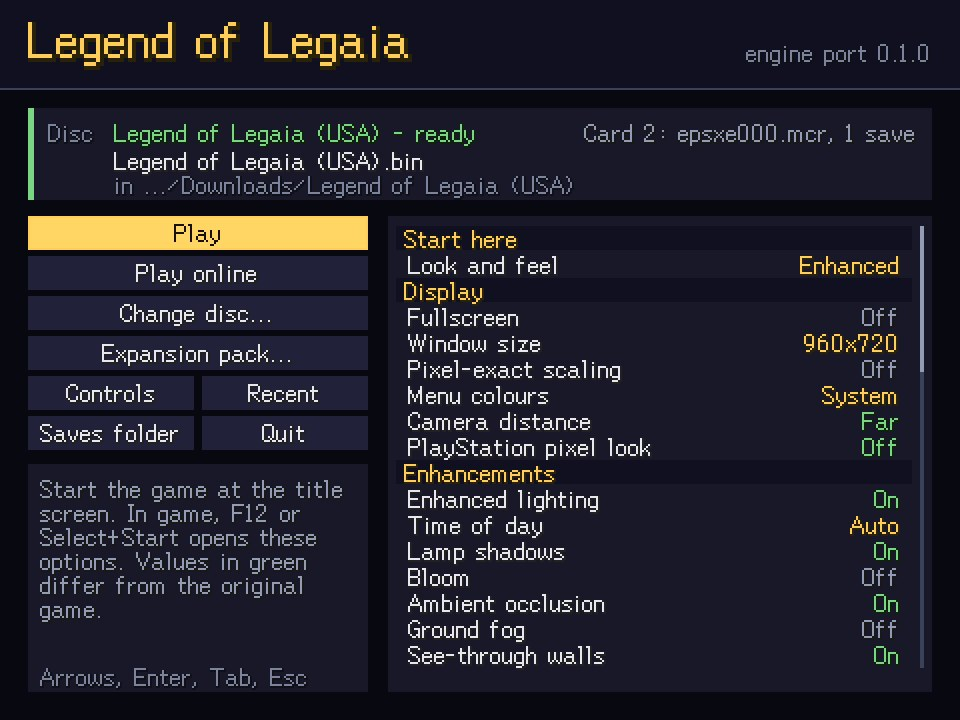
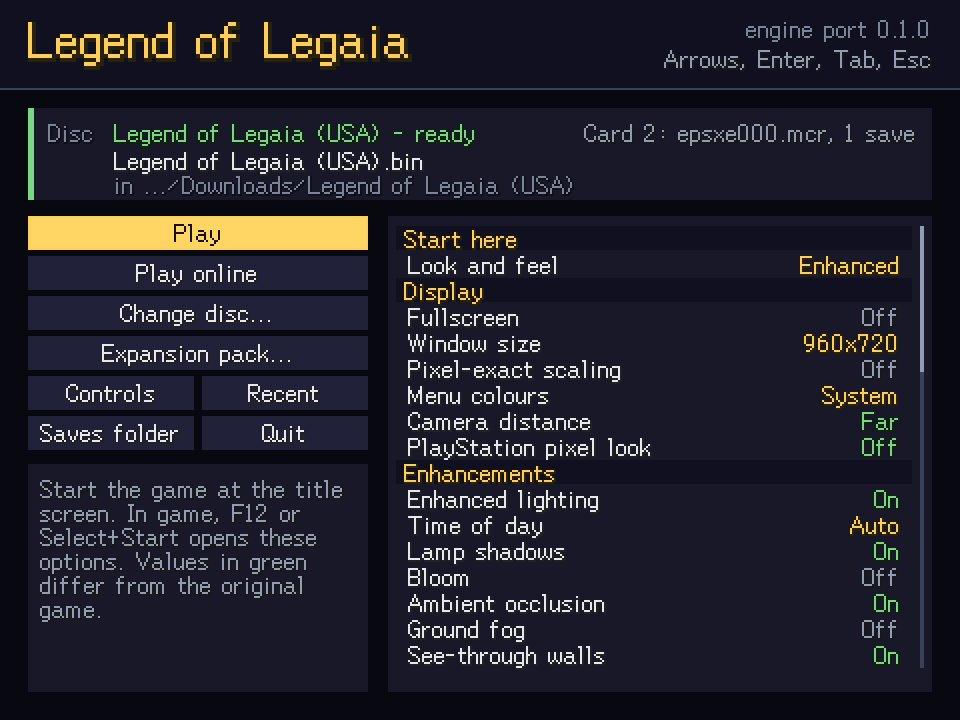
Launcher: the key reminder moves to the header, so no help text pushes it out
The help box's last line held "Arrows, Enter, Tab, Esc" only while the
help left room, and some forty option helps with their note (the default,
Not as in the original game, held by Original game only) took it. The
reminder (or a controller's "Cross OK, Circle back") now has a header line
of its own under the version, inside the band on the squeezed minimum stage
too, and the help box gets its whole height; its last line is kept only
for a failed game's copy-report hint. Tests: the reminder's header line for
the keyboard and every maker's labels on base, minimum and wide stages; every
option help with each of its notes, and every button's help, fit whole. The
guide's launcher image is re-shot.

diff --git a/site/_content/guides/playing-and-viewing.html b/site/_content/guides/playing-and-viewing.html
@@ -45,8 +45,8 @@
   <div class="cli"><code>./legaia-engine</code></div>
   <p>On Linux and Windows a disc image, expansion pack or memory card opened with <code>Legend of Legaia</code> ("Open with", or a file dropped on the program's icon) arrives in the launcher as if it were dropped on its window.</p>
   <figure class="screenshot">
-    <img src="../img/desktop/port-launcher.jpg" width="960" height="720" alt="The launcher: a disc card saying Legend of Legaia (USA) is ready, with the memory card mounted in port 2 named beside it, the Play, Play online, Change disc, Expansion pack, Controls, Recent, Saves folder and Quit buttons with a help box, and the grouped option list with its scroll bar, opening on the Look and feel row, then Display and Enhancements" loading="lazy">
-    <figcaption>The launcher, lettered in the game's own font once your disc is known. It scales in whole steps (a 640x480 window takes a 4/3 step so it fills); a taller window shows more of the option list and a wider one widens both columns. The gold-filled button is the one under the cursor; <em>Play</em> letters itself in gold when it is not.</figcaption>
+    <img src="../img/desktop/port-launcher.jpg" width="960" height="720" alt="The launcher: a disc card saying Legend of Legaia (USA) is ready, with the memory card mounted in port 2 named beside it, the Play, Play online, Change disc, Expansion pack, Controls, Recent, Saves folder and Quit buttons with a help box, the version and the key reminder at the header's right, and the grouped option list with its scroll bar, opening on the Look and feel row, then Display and Enhancements" loading="lazy">
+    <figcaption>The launcher, lettered in the game's own font once your disc is known. It scales in whole steps (a 640x480 window takes a 4/3 step so it fills); a taller window shows more of the option list and a wider one widens both columns. The gold-filled button is the one under the cursor; <em>Play</em> letters itself in gold when it is not. The keys that work the screen sit at the header's right, under the version, where no help text can push them out.</figcaption>
   </figure>
   <ol class="steps">
     <li><b>Pick the disc</b><span><em>Choose disc...</em> (<kbd>Ctrl</kbd>+<kbd>O</kbd>) opens the file dialog; dragging the <code>.bin</code> / <code>.cue</code> onto the window, or typing its path, works too.</span></li>
@@ -57,7 +57,7 @@
   <p>The check reads a few sectors through the same reader the game boots from; it is not the SHA-256 fingerprint <code>disc-extract verify</code> computes. A PAL or Japanese disc is refused with the executable it boots, with the note that a randomized or translated USA disc is accepted, since it still boots the USA executable. A disc that is not a PlayStation game at all is named as such, and an image missing <code>PROT.DAT</code> or with a damaged <code>SCUS_942.54</code> is called a damaged or partial dump, with the advice to dump the disc again.</p>
   <p><strong>Your disc, found.</strong> On a first run the launcher looks for a dump before asking for one: first the discs Legaia Explorer opened, whatever the files are called, then its own folder, Downloads, the Desktop, Documents and the home folder (and their direct subfolders): a <code>.bin</code> or <code>.cue</code> named for the game, or in a folder named for it, that passes the check. It is offered on the disc card with <em>Use this disc</em>; <kbd>Enter</kbd> adopts it, <kbd>Ctrl</kbd>+<kbd>O</kbd> or <kbd>Shift</kbd>+<kbd>Enter</kbd> picks another file.</p>
   <p><strong>Recent.</strong> The <em>Recent</em> button opens a page listing the discs and memory cards used before, each with its state, and every save on the game's own card and on card 2, longest played first, with its leader, level, place and play time. <kbd>Enter</kbd> switches to a disc, mounts a card, or starts the game on a save without the title screen; <kbd>Delete</kbd> forgets a disc or card. The discs group ends with <em>Find a disc on this computer...</em>, the disc finder below.</p>
-  <p><strong>A disc finder for a controller.</strong> A controller cannot work the desktop's file dialog, so Cross on <em>Choose disc...</em> opens the launcher's own finder in place of the options: the folder of the disc last used (else Downloads, else the home folder), its subfolders and its <code>.bin</code> / <code>.cue</code> files, then the usual places (home, Downloads, Desktop, Documents, the program's folder and the top of each drive). Cross opens a folder or tries a disc image, and a disc that passes the check is adopted at once; <em>Up one folder</em> (or <kbd>Backspace</kbd>) climbs, and Circle or <kbd>Esc</kbd> closes it. While a controller was the last thing pressed, the help box's key reminder and the press-to-play lines name its buttons, by the labels its maker prints on them.</p>
+  <p><strong>A disc finder for a controller.</strong> A controller cannot work the desktop's file dialog, so Cross on <em>Choose disc...</em> opens the launcher's own finder in place of the options: the folder of the disc last used (else Downloads, else the home folder), its subfolders and its <code>.bin</code> / <code>.cue</code> files, then the usual places (home, Downloads, Desktop, Documents, the program's folder and the top of each drive). Cross opens a folder or tries a disc image, and a disc that passes the check is adopted at once; <em>Up one folder</em> (or <kbd>Backspace</kbd>) climbs, and Circle or <kbd>Esc</kbd> closes it. While a controller was the last thing pressed, the header's key reminder and the press-to-play lines name its buttons, by the labels its maker prints on them.</p>
   <p><strong>Menu colours.</strong> The launcher and the game's <kbd>F12</kbd> panel draw in Explorer's two palettes. The Display group's <em>Menu colours</em> row follows your desktop's light or dark preference, or stays light or dark.</p>
   <p><strong>Windows reopen where they closed.</strong> The launcher and the game window each come back where they last closed (<code>window-placement.toml</code> beside <code>launcher.toml</code>), as Explorer does, unless that spot is no longer on a connected monitor; then the desktop places them. The game window also comes back at the size it was dragged to, held to the monitor it reopens on, or maximized if it closed that way; moving <em>Window size</em> overrides it. A fullscreen game keeps the spot it had before it went fullscreen, and a desktop that does not report window positions (Wayland) leaves placement to the desktop.</p>
   <p><strong>A broken settings file is kept.</strong> A <code>launcher.toml</code> that does not parse (a hand edit gone wrong, a write cut off by a crash) is never overwritten with the defaults: the launcher renames it to <code>launcher.toml.broken</code>, says so on the disc card and in the help box, and starts as on a first run, so its discs, switches and card can be copied back by hand. Every save goes through a temporary file, so a crash mid-save leaves the previous file whole. Legaia Explorer does the same with its <code>settings.json</code> and says so on its error banner.</p>

diff --git a/site/_content/guides/desktop-apps.html b/site/_content/guides/desktop-apps.html
@@ -183,7 +183,7 @@
 
   <h3 id="port-launcher">The launcher</h3>
   <figure class="screenshot">
-    <img src="../img/desktop/port-launcher.jpg" width="960" height="720" alt="The launcher: a disc card saying Legend of Legaia (USA) is ready and, at its right, Card 2: epsxe000.mcr, 1 save; the Play, Play online, Change disc, Expansion pack, Controls, Recent, Saves folder and Quit buttons with a help box, and the grouped option list with its scroll bar, opening on the Look and feel row, then Display and Enhancements" loading="lazy">
+    <img src="../img/desktop/port-launcher.jpg" width="960" height="720" alt="The launcher: a disc card saying Legend of Legaia (USA) is ready and, at its right, Card 2: epsxe000.mcr, 1 save; the Play, Play online, Change disc, Expansion pack, Controls, Recent, Saves folder and Quit buttons with a help box, the version and the key reminder at the header's right, and the grouped option list with its scroll bar, opening on the Look and feel row, then Display and Enhancements" loading="lazy">
     <figcaption>The launcher, with an emulator's memory card mounted in port 2 (the disc card names it and counts its saves). Once it knows your disc it letters itself in the game's own font. It scales in whole steps to stay sharp (a 640x480 window takes 4/3 so it fills); a taller window shows more of the option list, and a wider one widens both columns, instead of empty margins.</figcaption>
   </figure>
   <ol class="steps">

diff --git a/crates/engine-shell/src/bin/legaia-engine/launcher_window.rs b/crates/engine-shell/src/bin/legaia-engine/launcher_window.rs
@@ -112,7 +112,8 @@ const DIRECT_ENV: &str = "LEGAIA_LAUNCHER_DIRECT";
 const TITLE: &str = "Legend of Legaia";
 /// The help box's last line after a failed game: both ways to the report.
 const COPY_REPORT_HINT: &str = "Click or Ctrl+C: report";
-/// The help box's last line: the keys that work the screen.
+/// The header's key reminder ([`header_right`]): the keys that work the
+/// screen.
 const KEY_HINT: &str = "Arrows, Enter, Tab, Esc";
 /// The disc finder's row to the folder above.
 const FINDER_UP: &str = "Up one folder";
@@ -534,9 +535,8 @@ const TYPED_PATH_HELP: &str = "Enter checks the typed path and uses the disc the
 const FIRST_RUN_CARD: &str =
     "Use your own .bin or .cue dump: click Choose disc, drop the file here, or paste its path.";
 
-/// The *Choose disc* help on the first run. Short enough to leave the help
-/// box its key reminder: the first run is when a player least knows the
-/// screen is keyboard-driven. The disc card above says how to choose.
+/// The *Choose disc* help on the first run. The disc card above says how to
+/// choose.
 const FIRST_RUN_HELP: &str = "Pick your own disc image: a dump's .bin, or its .cue. It is checked and remembered; \
      no game data comes with this program. Ctrl+O.";
 
@@ -2532,10 +2532,11 @@ impl LauncherApp {
         let sq = c.stage.squeeze;
         c.band_to_top(HEADER_H, BAND);
         c.full_width(HEADER_H, 1, RULE);
-        c.text_scaled(PAD, 7 + sq / 2, "Legend of Legaia", GOLD, 2);
-        let sub = format!("engine port {}", env!("CARGO_PKG_VERSION"));
-        let w = c.width(&sub);
-        c.text(c.stage.width() - PAD - w, 20 + sq / 2, &sub, FAINT);
+        c.text_scaled(PAD, 7 + sq / 2, TITLE, GOLD, 2);
+        let key_hint = self.key_hint();
+        let head = header_right(c, &key_hint);
+        c.text(head.version.0, head.version.1, &head.version_text, FAINT);
+        c.text(head.hint.0, head.hint.1, &key_hint, DIM);
 
         self.disc_card(c);
 
@@ -2603,7 +2604,7 @@ impl LauncherApp {
         let help = help_rect(&c.stage);
         c.rect(help, CARD);
         let lines = self.help_lines();
-        let hl = help_layout(c, &lines);
+        let hl = help_layout(c, &lines, self.failure_report.is_some());
         let mut y = help.y + 6;
         'outer: for (wrapped, ink) in &hl.lines {
             for l in wrapped {
@@ -2615,19 +2616,10 @@ impl LauncherApp {
             }
             y += 3;
         }
-        let footer = hl.footer;
-        let key_hint = self.key_hint();
-        if footer {
-            c.text(
-                help.x + 6,
-                help.y + help.h - 14,
-                if self.failure_report.is_some() {
-                    COPY_REPORT_HINT
-                } else {
-                    &key_hint
-                },
-                FAINT,
-            );
+        // The key reminder sits in the header ([`header_right`]); the box's
+        // last line is kept only for the failure report's copy hint.
+        if hl.footer {
+            c.text(help.x + 6, help.y + help.h - 14, COPY_REPORT_HINT, FAINT);
         }
 
         // Right column.
@@ -3082,7 +3074,7 @@ impl LauncherApp {
         }
         // The help is written in the keyboard's words; while a controller
         // was pressed last it names that controller's buttons instead, as the
-        // key reminder under it does.
+        // header's key reminder does.
         if let Some(g) = self.pad_last {
             let table = [
                 ("Shift+Enter", self.pad_label("Triangle", g)),
@@ -4381,9 +4373,34 @@ fn controls_notes_bottom(c: &Canvas, panel: Rect) -> i32 {
         + controls_note_lines(c, panel).len() as i32 * 12
 }
 
-/// How a help-box message lays out: its wrapped lines, whether the key
-/// reminder keeps its line, the last row text may reach, and whether every
-/// line fits.
+/// Where the header's right side puts its two lines: the version, and
+/// under it the key reminder (`Arrows, Enter, Tab, Esc`, or a controller's
+/// `Cross OK, Circle back`), both right-aligned and inside the band's
+/// visible rows on a squeezed stage too. The reminder lives here, not at
+/// the foot of the help box, so no help text, however long, can push it out.
+struct HeaderRight {
+    version_text: String,
+    version: (i32, i32),
+    hint: (i32, i32),
+}
+
+fn header_right(c: &Canvas, hint: &str) -> HeaderRight {
+    let sq = c.stage.squeeze;
+    // The band shows stage rows `sq .. HEADER_H`: two 12-row lines 3 apart,
+    // centred in them.
+    let top = sq + (HEADER_H - sq - 27) / 2;
+    let right = c.stage.width() - PAD;
+    let version_text = format!("engine port {}", env!("CARGO_PKG_VERSION"));
+    HeaderRight {
+        version: (right - c.width(&version_text), top),
+        hint: (right - c.width(hint), top + 15),
+        version_text,
+    }
+}
+
+/// How a help-box message lays out: its wrapped lines, whether the failure
+/// report's copy hint keeps the last line, the last row text may reach,
+/// and whether every line fits.
 struct HelpLayout {
     lines: Vec<(Vec<String>, Role)>,
     footer: bool,
@@ -4393,18 +4410,20 @@ struct HelpLayout {
     fits: bool,
 }
 
-fn help_layout(c: &Canvas, msg: &[Message]) -> HelpLayout {
+/// `report`: a failed game's report is up, whose copy hint asks for the
+/// box's last line. Every other message has the whole box.
+fn help_layout(c: &Canvas, msg: &[Message], report: bool) -> HelpLayout {
     let help = help_rect(&c.stage);
     let lines: Vec<(Vec<String>, Role)> = msg
         .iter()
         .map(|(text, ink)| (c.wrap(text, help.w - 12), *ink))
         .collect();
-    // The key reminder gives its line up to a message that needs it (a disc
-    // problem's reason and fix): cutting the fix off mid-sentence would
-    // leave the one line that says what to do unread.
+    // The copy hint gives its line up to a report that needs it: cutting
+    // the reason off mid-sentence would leave it unread, and Ctrl+C still
+    // copies.
     let rows: i32 = lines.iter().map(|(l, _)| l.len() as i32).sum();
     let needed = rows * 12 + 3 * (lines.len() as i32 - 1).max(0);
-    let footer = needed <= help.h - 6 - 14;
+    let footer = report && needed <= help.h - 6 - 14;
     let bottom = help.y + help.h - if footer { 14 } else { 4 };
     HelpLayout {
         fits: help.y + 6 + needed <= bottom,
@@ -5263,7 +5282,7 @@ mod tests {
         for (font, condense, name) in fonts() {
             let c = canvas_for(&font, condense);
             for (what, msg) in help_messages() {
-                let l = help_layout(&c, &msg);
+                let l = help_layout(&c, &msg, false);
                 if !l.fits {
                     let rows: Vec<_> = l.lines.iter().map(|(w, _)| w).collect();
                     cut.push(format!("{name}: {what}: {rows:?}"));
@@ -5273,19 +5292,72 @@ mod tests {
         assert!(cut.is_empty(), "the help box cuts off:\n{}", cut.join("\n"));
     }
 
-    /// The buttons' own help leaves the help box its key reminder, with and
-    /// without a disc: the reminder is the screen's only word that it is
-    /// keyboard-driven, and the first run is when a player needs it most.
+    /// The key reminder has a header line of its own, under the version and
+    /// clear of the title, for the keyboard and every maker's controller
+    /// labels, on the base, the squeezed (minimum) and a wide stage: no help
+    /// text can push it out, the first run included.
     #[test]
-    fn button_help_keeps_the_key_reminder() {
+    fn the_key_reminder_has_its_own_header_line() {
+        use legaia_engine_system::gamepad::GlyphSet;
+        let stages = [
+            BASE_STAGE,
+            stage_for((STAGE_W as u32, (STAGE_H - HEADER_GIVE) as u32)),
+            stage_for((1920, 1080)),
+        ];
+        let mut bad = Vec::new();
+        for (font, condense, name) in fonts() {
+            let mut c = canvas_for(&font, condense);
+            let title_end = PAD + c.width(TITLE) * 2;
+            let mut app =
+                LauncherApp::new(None, Some(DiscProblem::NotSet), Default::default(), None);
+            let mut hints = vec![app.key_hint()];
+            for glyphs in [GlyphSet::Xbox, GlyphSet::PlayStation, GlyphSet::Nintendo] {
+                app.pad_last = Some(glyphs);
+                hints.push(app.key_hint());
+                assert_eq!(app.play_key(), app.pad_label("Start", glyphs));
+            }
+            for st in stages {
+                c.stage = st;
+                for hint in &hints {
+                    let h = header_right(&c, hint);
+                    let ok = h.hint.0 >= title_end + 8
+                        && h.version.0 >= title_end + 8
+                        && h.version.1 >= st.squeeze
+                        && h.version.1 + 12 < h.hint.1
+                        && h.hint.1 + 12 <= HEADER_H;
+                    if !ok {
+                        bad.push(format!("{name}: squeeze {} {hint:?}", st.squeeze));
+                    }
+                }
+            }
+        }
+        assert!(bad.is_empty(), "{}", bad.join("\n"));
+        assert_eq!(pad_key_hint("Cross", "Circle"), "Cross OK, Circle back");
+    }
+
+    /// Every option row's help, with each note it can carry (the default it
+    /// differs from, *Not as in the original game*, held by *Original game
+    /// only*), and every button's help, with and without a disc, fits the
+    /// help box whole: the regression gate for the help box giving way to
+    /// the key reminder, which it used to share a line with.
+    #[test]
+    fn option_and_button_help_fit_whole() {
         let disc = DiscInfo {
             path: "/home/player/Games/Legend of Legaia (USA).bin".into(),
             bin: "/home/player/Games/Legend of Legaia (USA).bin".into(),
             executable: launcher::USA_EXECUTABLE.into(),
         };
-        let mut lost = Vec::new();
+        let mut cut = Vec::new();
         for (font, condense, name) in fonts() {
             let c = canvas_for(&font, condense);
+            for (what, msg) in help_messages()
+                .into_iter()
+                .filter(|(w, _)| OPTION_ROWS.iter().any(|(_, r)| w.starts_with(r.label())))
+            {
+                if !help_layout(&c, &msg, false).fits {
+                    cut.push(format!("{name}: {what}"));
+                }
+            }
             for with_disc in [false, true] {
                 let mut app =
                     LauncherApp::new(None, Some(DiscProblem::NotSet), Default::default(), None);
@@ -5296,47 +5368,13 @@ mod tests {
                 }
                 for item in BUTTONS {
                     app.focus = item;
-                    let l = help_layout(&c, &app.help_lines());
-                    if !l.footer {
-                        lost.push(format!("{name}: {item:?} (disc: {with_disc})"));
+                    if !help_layout(&c, &app.help_lines(), false).fits {
+                        cut.push(format!("{name}: {item:?} (disc: {with_disc})"));
                     }
                 }
             }
         }
-        assert!(
-            lost.is_empty(),
-            "the key reminder is pushed out:\n{}",
-            lost.join("\n")
-        );
-    }
-
-    /// A controller's key reminder fits the help box's last line for every
-    /// maker's labels, and *Choose disc*'s controller help leaves it room.
-    #[test]
-    fn controller_key_reminder_fits_and_stays() {
-        use legaia_engine_system::gamepad::GlyphSet;
-        let mut cut = Vec::new();
-        for (font, condense, name) in fonts() {
-            let c = canvas_for(&font, condense);
-            let room = help_rect(&BASE_STAGE).w - 12;
-            for glyphs in [GlyphSet::Xbox, GlyphSet::PlayStation, GlyphSet::Nintendo] {
-                let mut app =
-                    LauncherApp::new(None, Some(DiscProblem::NotSet), Default::default(), None);
-                app.status = None;
-                app.pad_last = Some(glyphs);
-                let hint = app.key_hint();
-                if c.width(&hint) > room {
-                    cut.push(format!("{name}: {glyphs:?} reminder {hint:?}"));
-                }
-                app.focus = Item::ChooseDisc;
-                if !help_layout(&c, &app.help_lines()).footer {
-                    cut.push(format!("{name}: {glyphs:?} Choose disc help"));
-                }
-                assert_eq!(app.play_key(), app.pad_label("Start", glyphs));
-            }
-        }
-        assert!(cut.is_empty(), "{}", cut.join("\n"));
-        assert_eq!(pad_key_hint("Cross", "Circle"), "Cross OK, Circle back");
+        assert!(cut.is_empty(), "the help box cuts off:\n{}", cut.join("\n"));
     }
 
     /// The disc finder lists a folder's subfolders and disc images under

diff --git a/docs/guides/playing-and-viewing.md b/docs/guides/playing-and-viewing.md
@@ -53,7 +53,9 @@ arrives in the launcher as if it were dropped on its window.
 The launcher is one screen: a disc card at the top, the actions on the left
 (*Play*, *Play online*, *Choose disc...* / *Change disc...*, *Expansion
 pack...*, *Controls*, *Recent*, *Saves folder*, *Quit*) with a help box under them that explains whatever is
-focused, and the options on the right. Once a disc validates, the screen is
+focused, and the options on the right. The header's right side carries the
+version and, under it, the keys that work the screen (*Arrows, Enter, Tab,
+Esc*), on a line no help text can push out. Once a disc validates, the screen is
 lettered in the game's own dialog font, read from that disc. It is drawn in
 whole steps (2x in its 960x720 window); a window a little short of a step, as
 a 960x720 window on a 768-pixel-tall screen comes back once the title bar and
@@ -117,7 +119,7 @@ finder on those files (`.mcr` / `.mcd` / `.srm` / `.gme` / `.mcs`, or
 `.lxpack` / `pack.toml`) rather than the file dialog; the card finder's
 places start with the emulators' card folders that exist (DuckStation's
 `memcards`, Mednafen's `sav`, RetroArch's `saves`, ePSXe's `memcards`). While a controller was the last thing
-pressed, the help box's key reminder and the "press to play" lines name its
+pressed, the header's key reminder and the "press to play" lines name its
 buttons, by the labels its maker prints on them.
 
 On a Wayland desktop the launcher window opens through XWayland, because the
